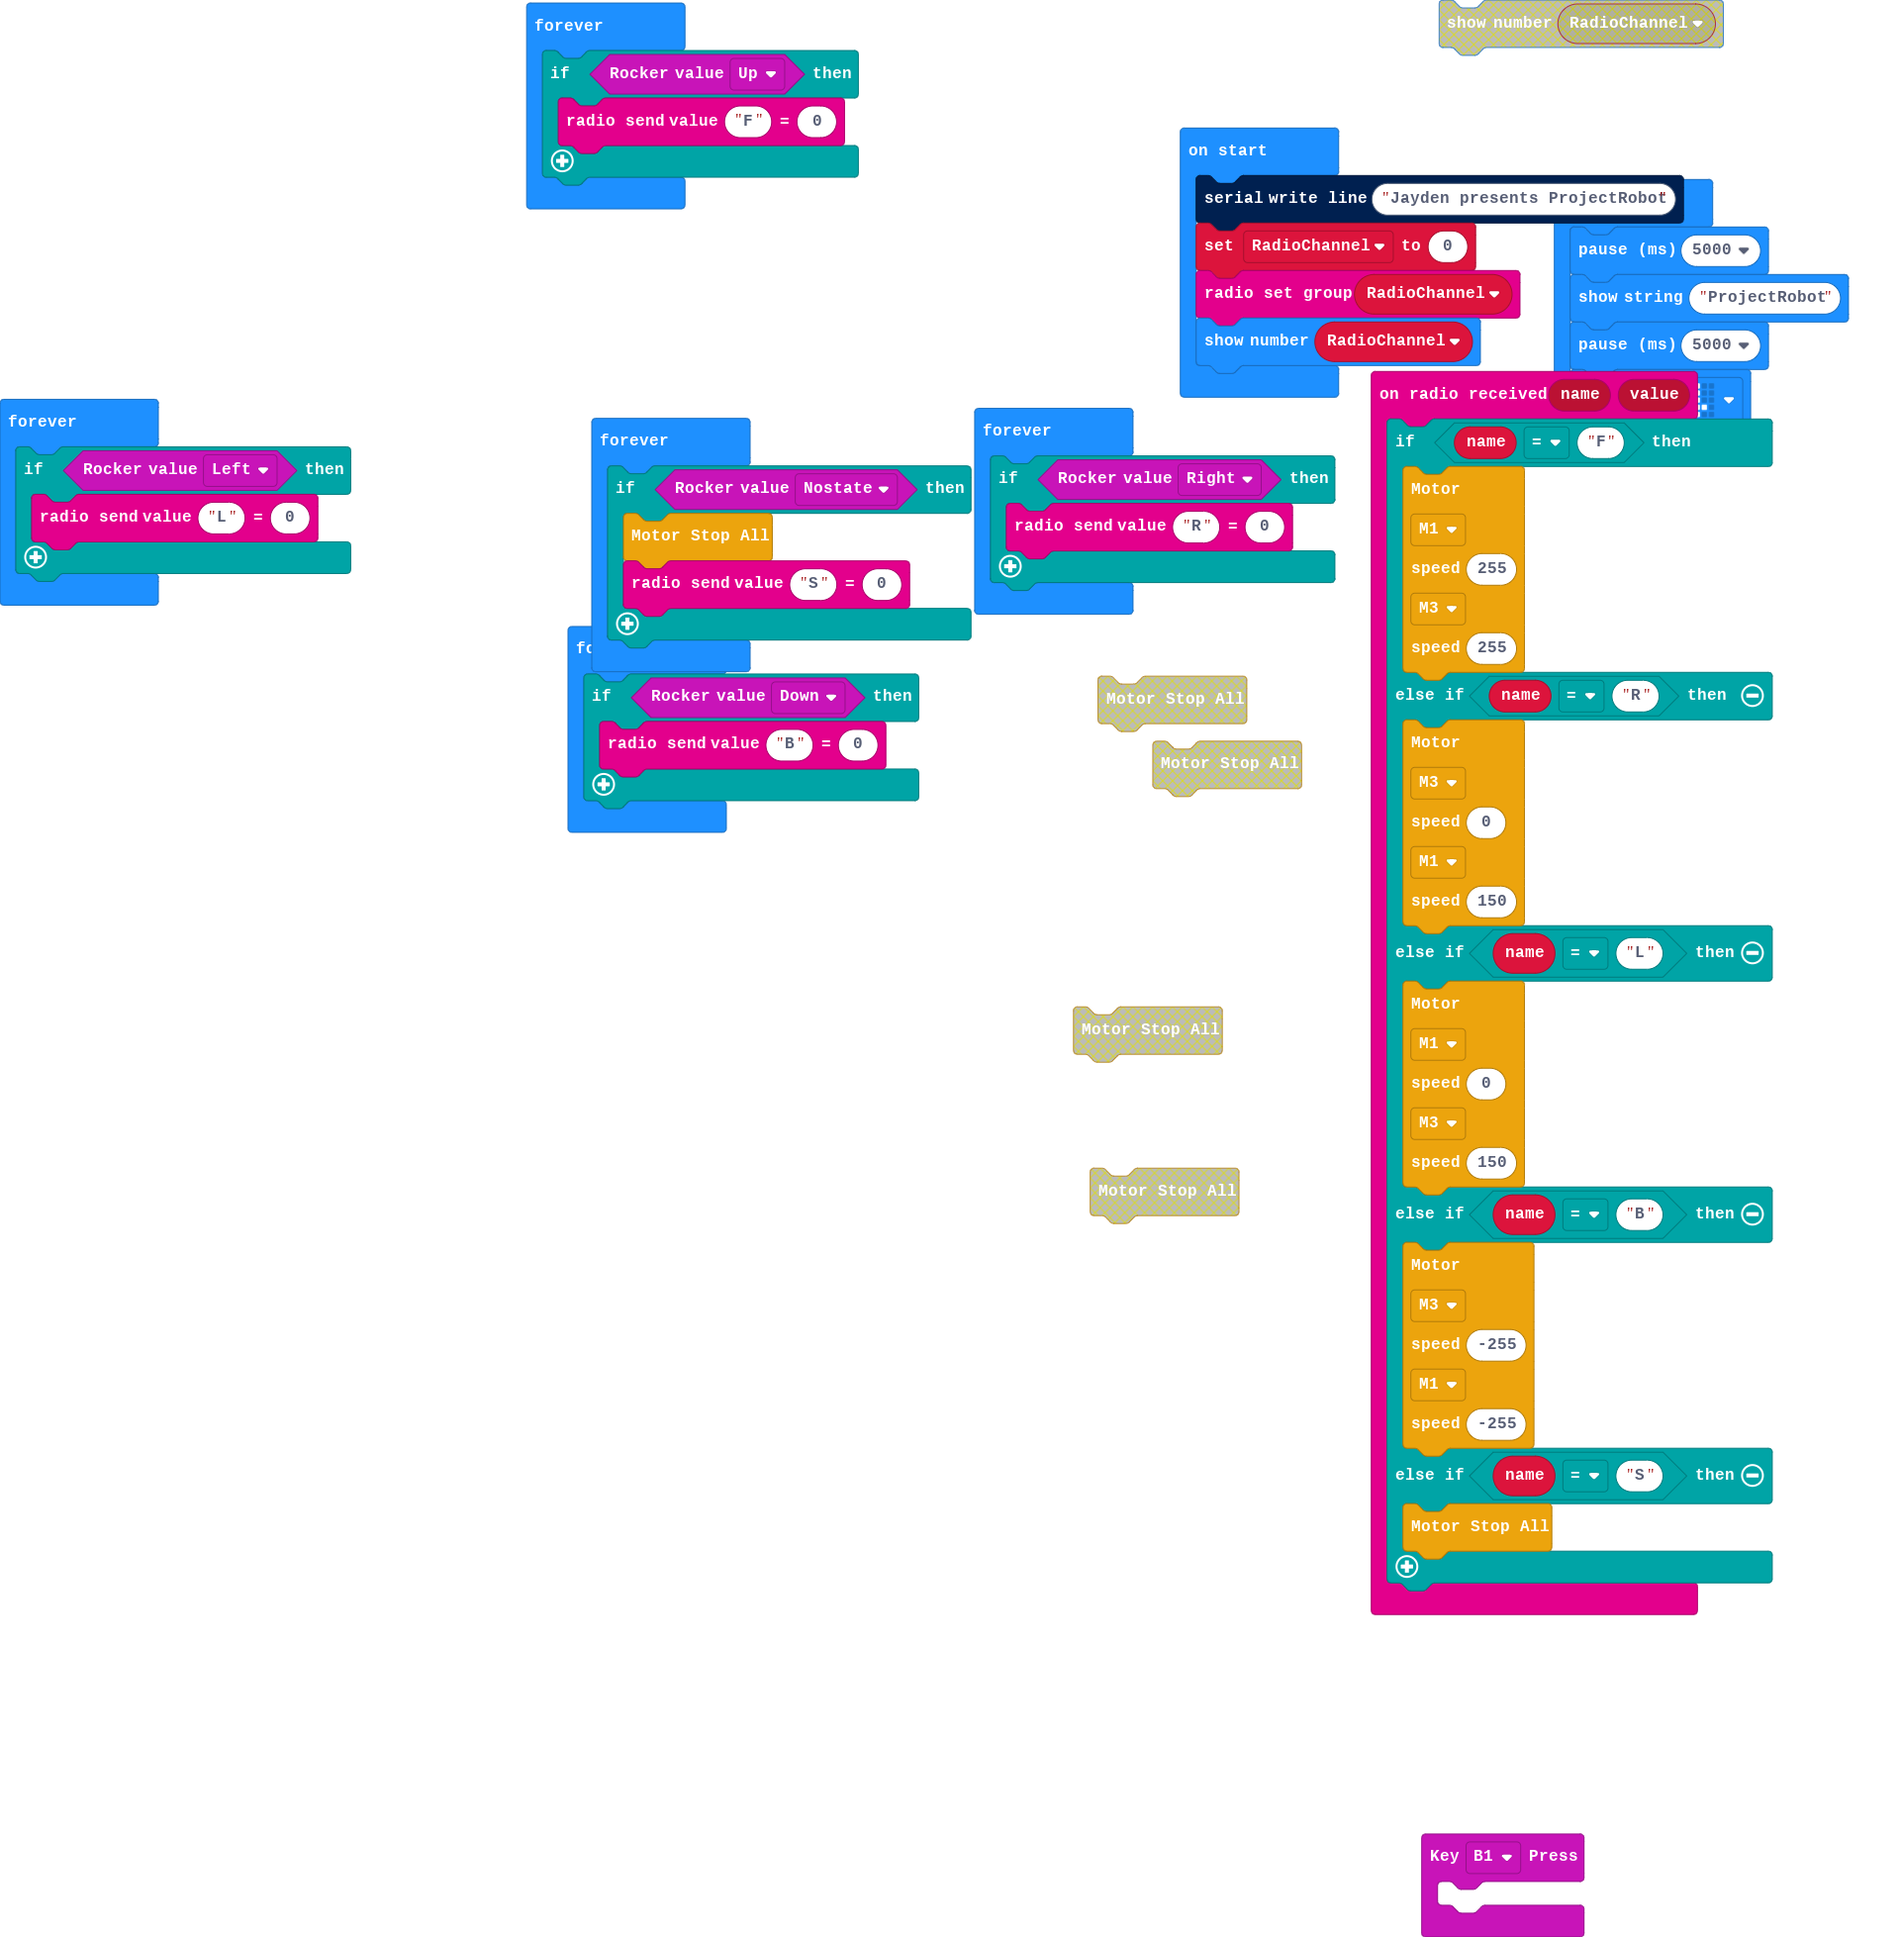
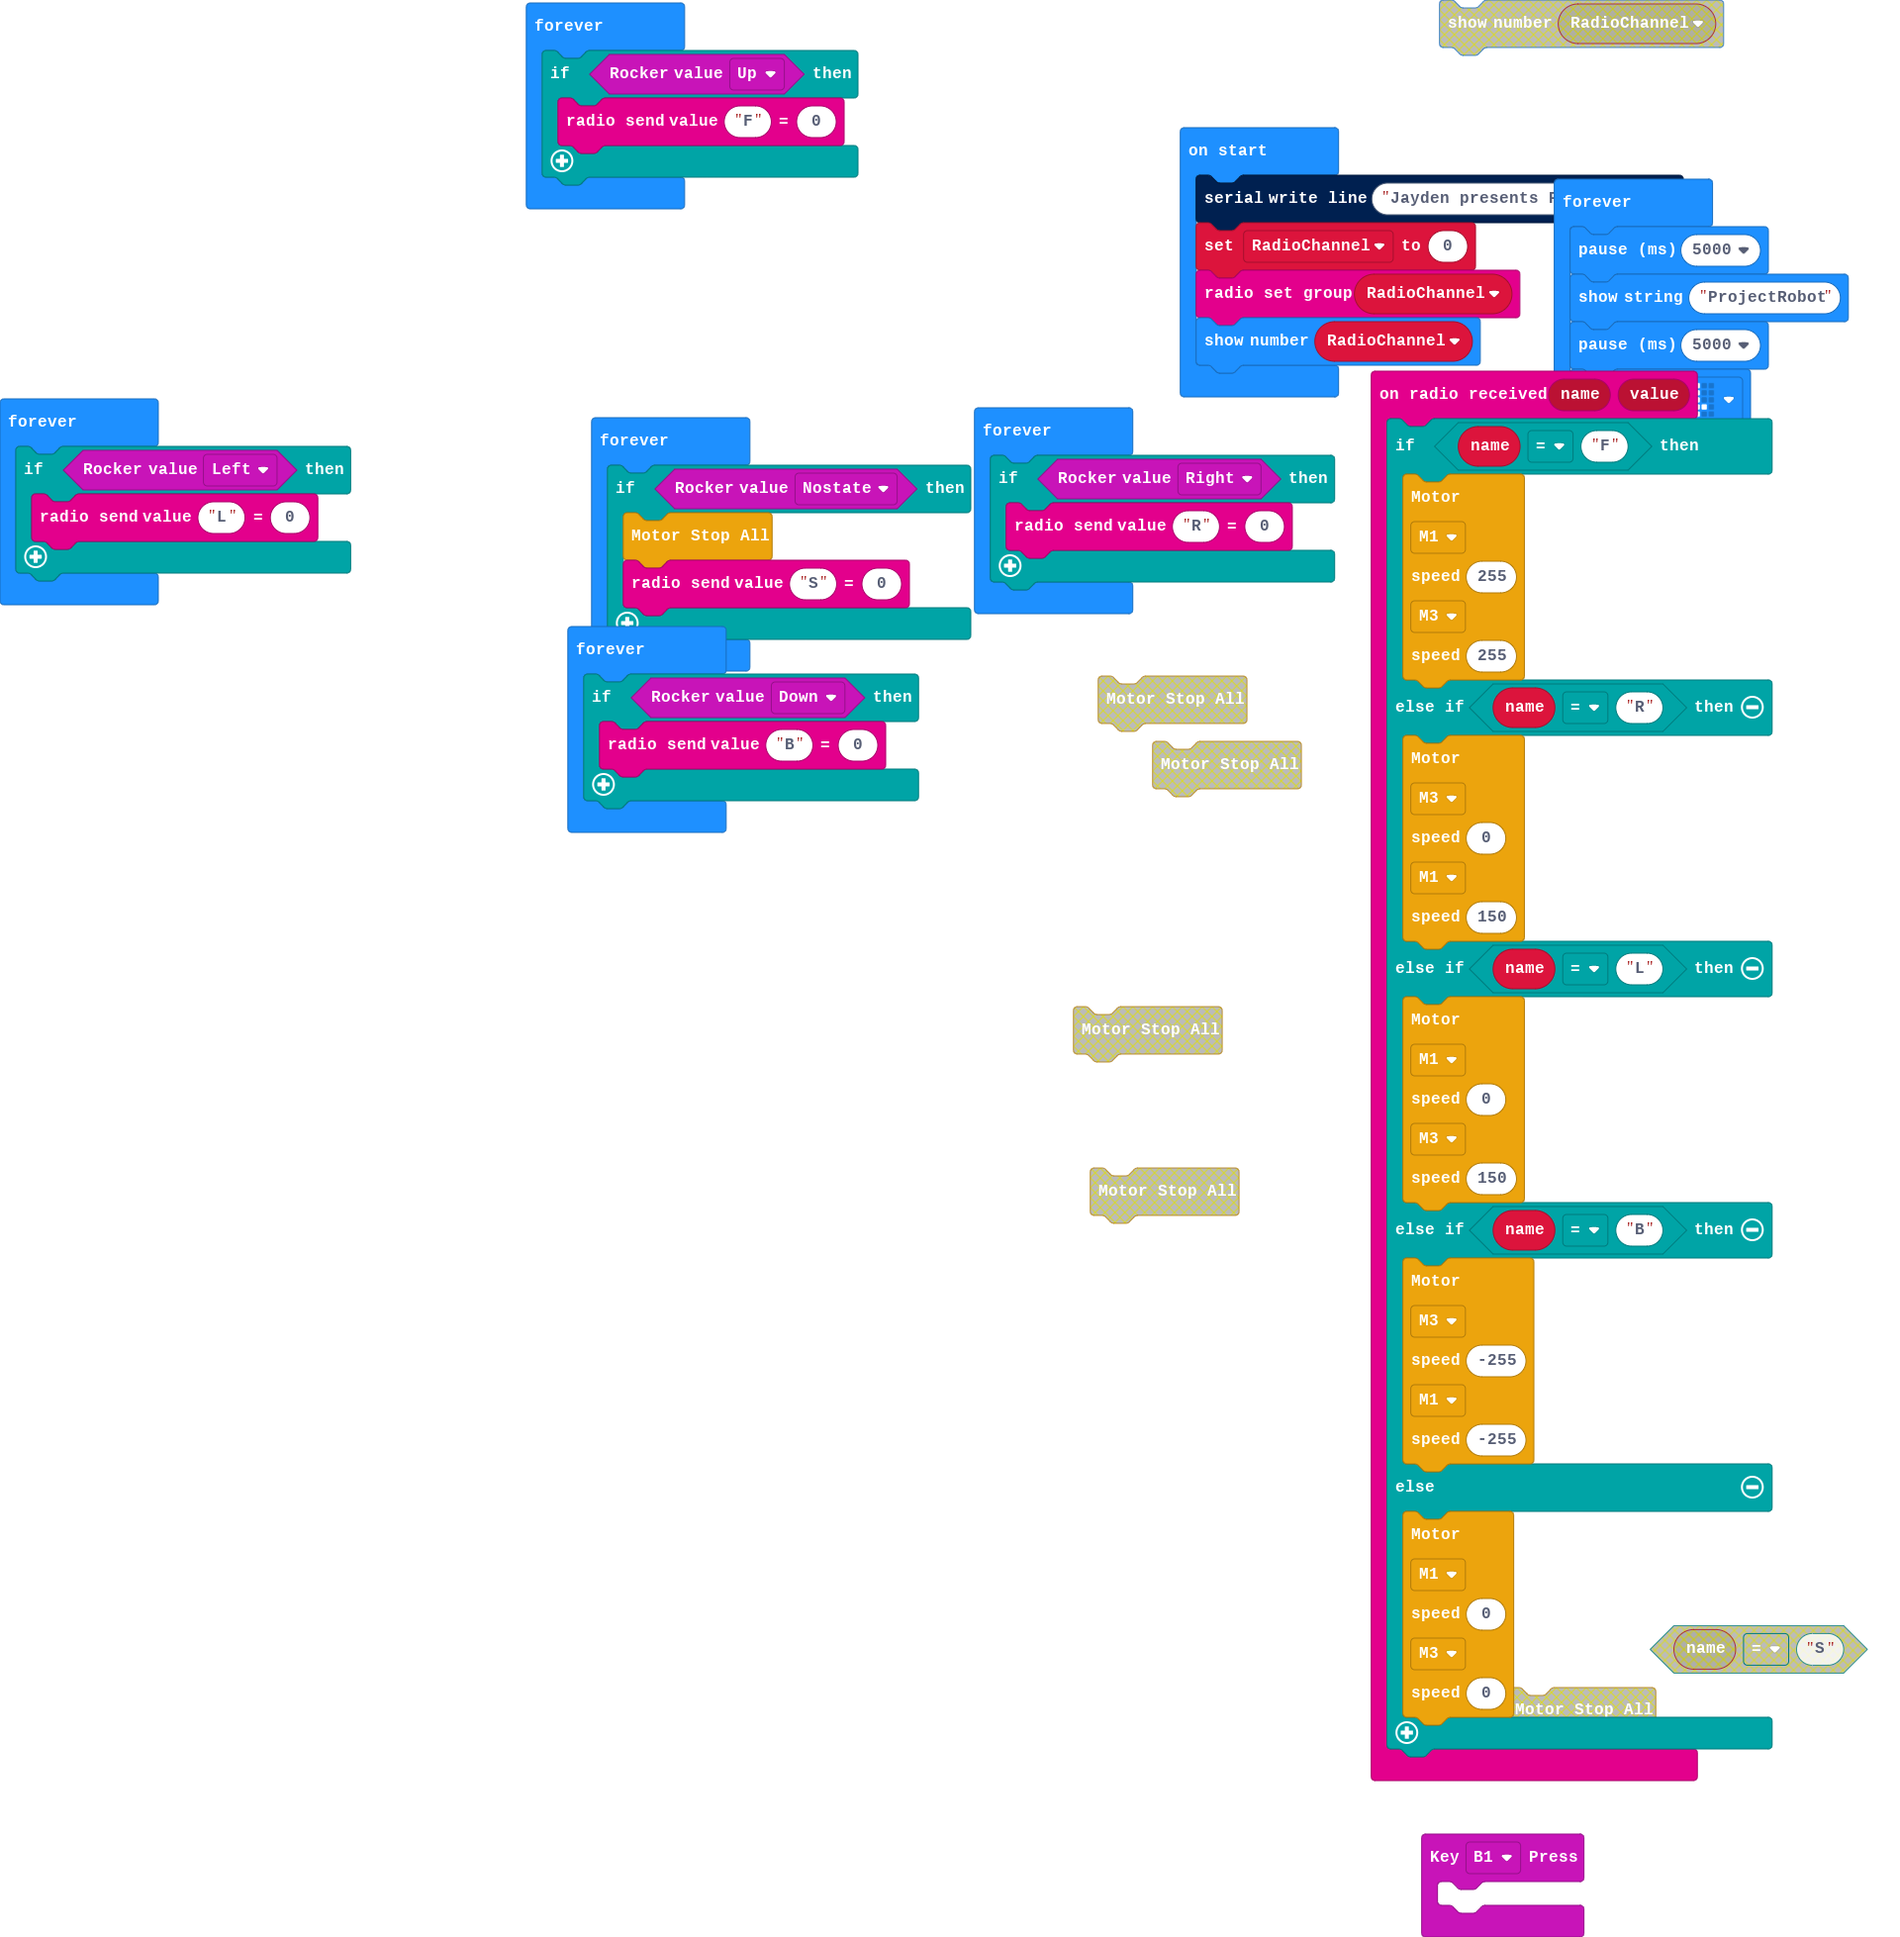
Update main.blocks, main.ts

diff --git a/main.ts b/main.ts
@@ -30,8 +30,13 @@ radio.onReceivedValue(function (name, value) {
         SuperBit.enMotors.M1,
         -255
         )
-    } else if (name == "S") {
-        SuperBit.MotorStopAll()
+    } else {
+        SuperBit.MotorRunDual(
+        SuperBit.enMotors.M1,
+        0,
+        SuperBit.enMotors.M3,
+        0
+        )
     }
 })
 serial.writeLine("Jayden presents ProjectRobot")
